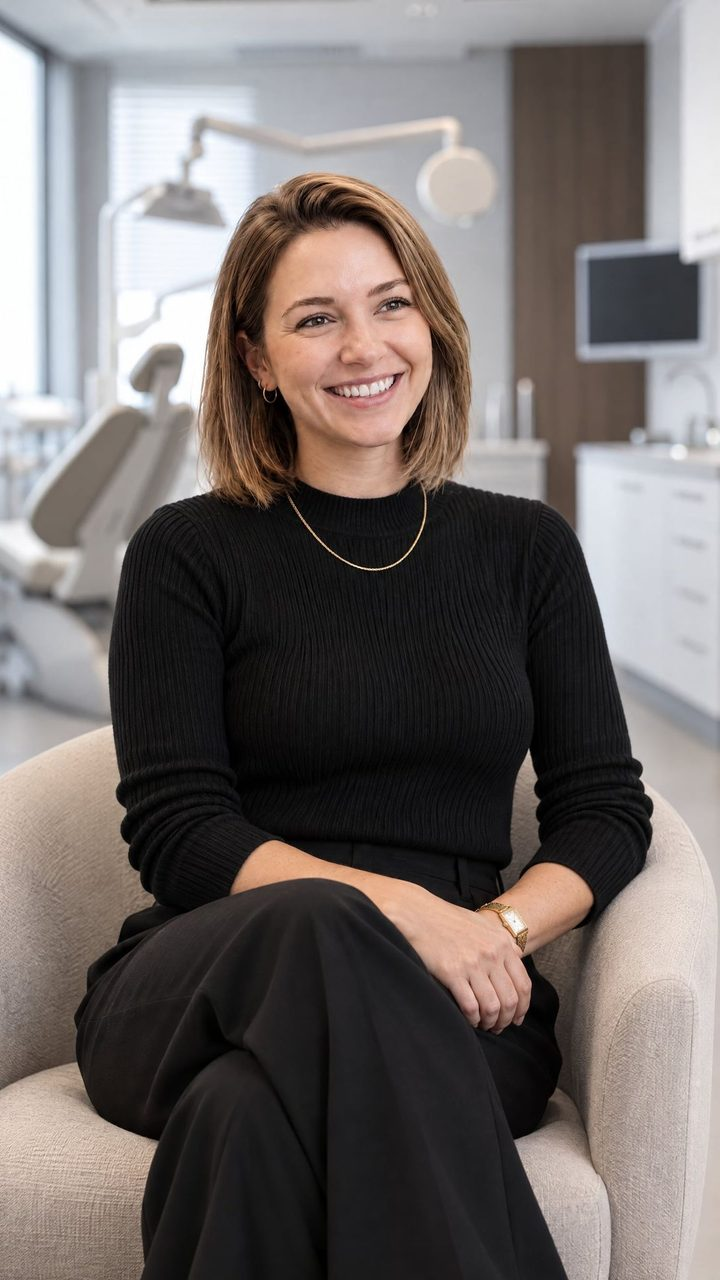
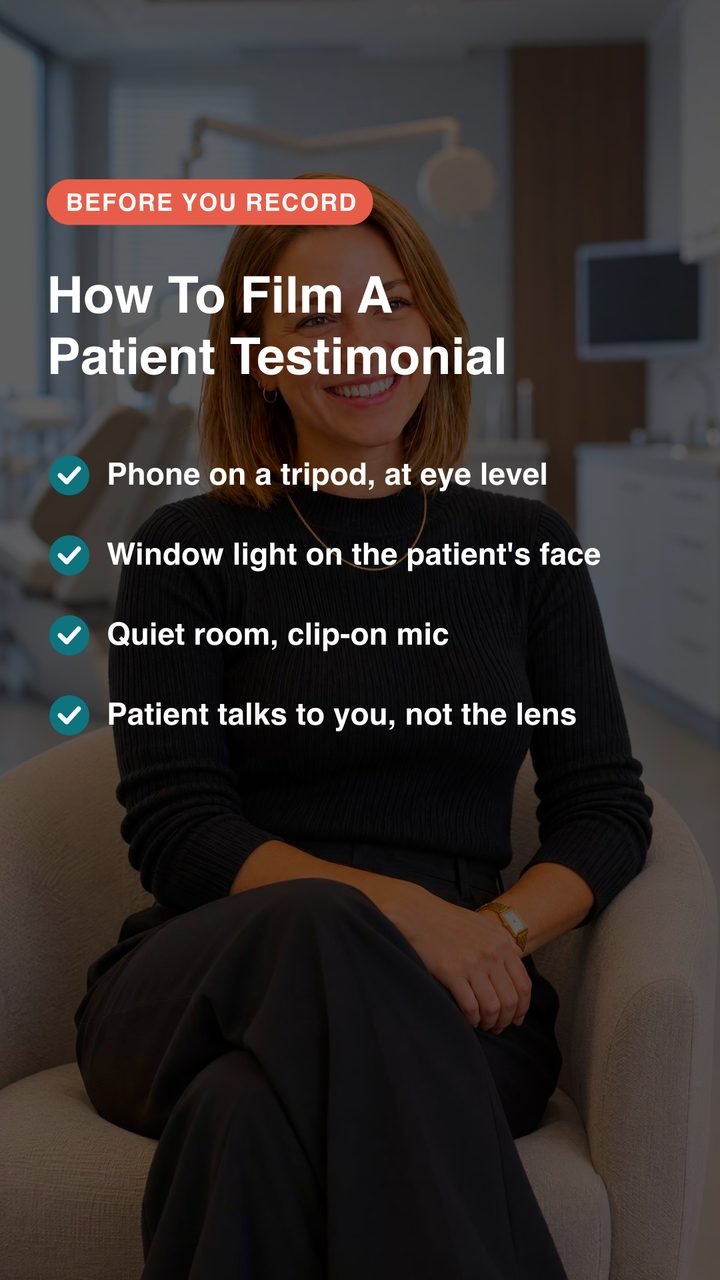
Reel posters show each Reel's title frame
The cards no longer lay their own hook over a plain photo; the posters
carry the teal, title-case title from the video itself.

diff --git a/src/data/samples.ts b/src/data/samples.ts
@@ -152,12 +152,13 @@ export const videos: Record<
   // Built by `node scripts/make-grinding-signs-reel.mjs scripts/reels/grinding-signs.json`.
   reel: {
     poster: grindingSignsPoster,
-    alt: 'Smiling dentist in a white coat in front of a dental X-ray',
+    alt: 'Smiling dentist in a white coat with the title "3 Signs You Grind Your Teeth At Night"',
     hook: '3 signs you grind your teeth at night',
     caption: 'Educational Reel from short clips · hook, numbered signs, captions, branded outro',
     label: 'Reel',
     duration: '0:29',
     video: 'videos/grinding-signs.mp4',
+    textInPoster: true,
   },
   testimonial: {
     poster: treatment,
@@ -170,12 +171,13 @@ export const videos: Record<
   // Built by `node scripts/make-testimonial-guide-reel.mjs scripts/reels/testimonial-guide.json`.
   testimonialGuide: {
     poster: testimonialGuidePoster,
-    alt: 'Patient in a black sweater smiling in an armchair in a dental clinic',
+    alt: 'Setup checklist titled "How To Film A Patient Testimonial" over a patient in an armchair',
     hook: 'How to film a patient testimonial',
     caption: 'Filming guide · camera angle, framing and the question to ask for each clip',
     label: 'Guide',
     duration: '1:00',
     video: 'videos/testimonial-guide.mp4',
+    textInPoster: true,
   },
   // Ad mock-ups built by `node scripts/make-ad-mockups.mjs scripts/ads/aligner-consult.json`.
   ad: {
@@ -224,7 +226,7 @@ export const videos: Record<
   // Built by `node scripts/make-transformation-reel.mjs` from the whitening pair in scripts/before-after/.
   transformation: {
     poster: transformationPoster,
-    alt: 'Teeth whitening before and after, stacked',
+    alt: 'Teeth whitening before and after, stacked, with the title "Teeth Whitening: Wait For The After"',
     hook: 'Teeth whitening: wait for the after',
     caption: 'Transformation Reel · slider reveal, labels, "results may vary" line',
     label: 'Reel',
@@ -235,11 +237,12 @@ export const videos: Record<
   // Built by `node scripts/make-myth-fact-reel.mjs scripts/reels/myth-fact.json`.
   mythFact: {
     poster: mythFactPoster,
-    alt: 'Smiling dentist in scrubs',
+    alt: 'Smiling dentist in scrubs with the title "3 Dental Myths You Probably Believe"',
     hook: 'Myth or fact? 3 dental myths',
     caption: 'Educational Short · myth/fact cards, counter, branded end card',
     label: 'Short',
     duration: '0:23',
     video: 'videos/myth-fact.mp4',
+    textInPoster: true,
   },
 };
